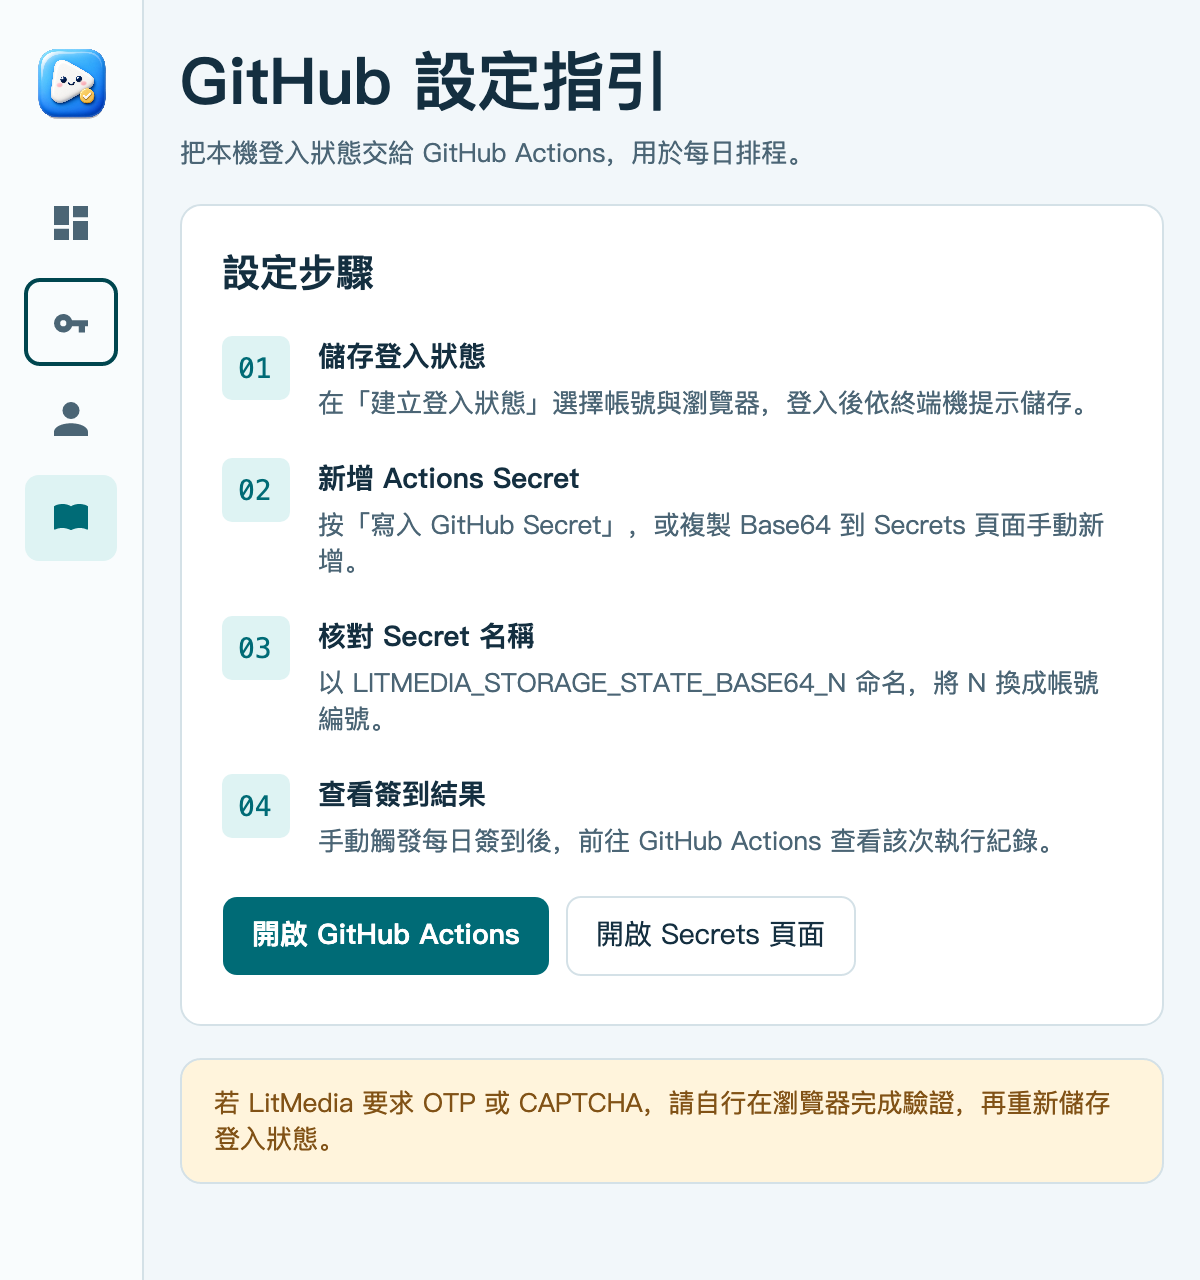
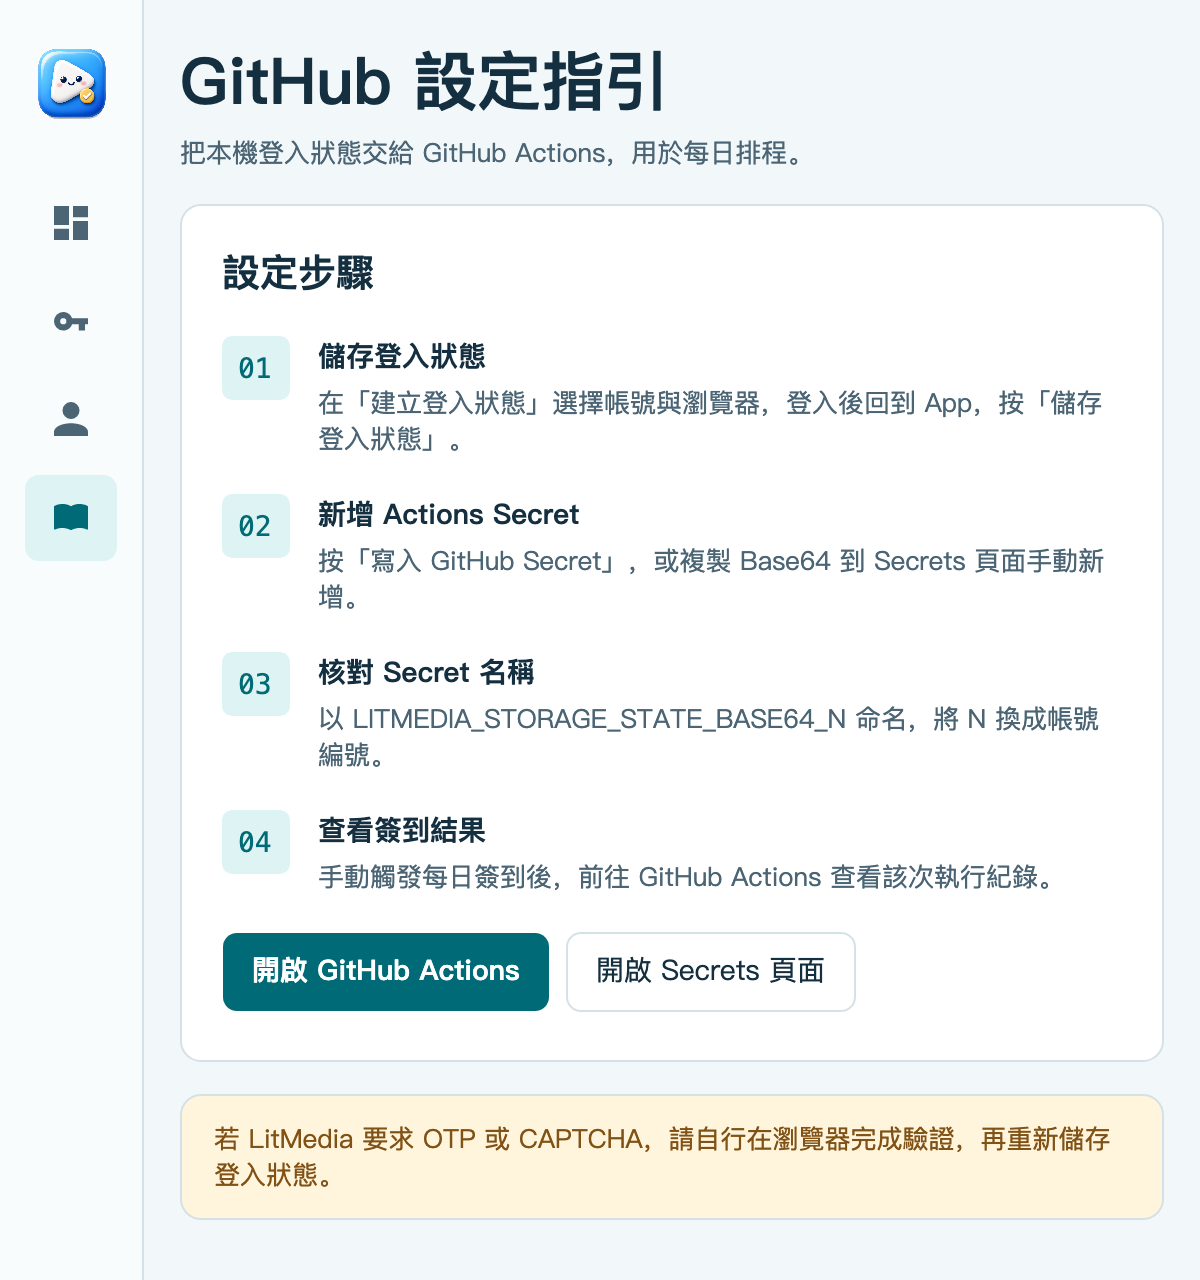
Save and cancel desktop browser sign-in without a terminal window

diff --git a/LitMediaFlow/MainWindow.axaml.cs b/LitMediaFlow/MainWindow.axaml.cs
@@ -23,6 +23,8 @@ public partial class MainWindow : Window
     private readonly Dictionary<int, string> _aliases = LoadAliases();
     private readonly Dictionary<int, TextBox> _aliasInputs = new();
     private string _browser = LoadBrowserPreference();
+    private Process? _loginProcess;
+    private bool _loginCancelled;
     private bool _showingRunAccounts;
     private string? _latestRunUrl;
     private DashboardAccount[] _displayedAccounts = [];
@@ -37,6 +39,7 @@ public partial class MainWindow : Window
         AccountComboBox.SelectionChanged += (_, _) =>
         {
             StatusText.Text = "";
+            LoginStatusText.Text = "";
             RefreshAccountState();
         };
         BrowserComboBox.ItemsSource = BrowserOptions;
@@ -52,6 +55,7 @@ public partial class MainWindow : Window
             if (DashboardView.IsVisible) RefreshLocalAccounts();
         };
         Opened += MainWindow_OnOpened;
+        Closed += (_, _) => StopLogin();
     }
 
     private int AccountNumber => AccountComboBox.SelectedIndex + 1;
@@ -135,6 +139,7 @@ public partial class MainWindow : Window
         StateDescription.Text = state is null
             ? "尚未找到登入狀態。請先完成登入流程，儲存後即可複製 Base64 或寫入 GitHub Secret。"
             : $"已找到 {Path.GetFileName(state)}。可複製 Base64 後到 Secrets 頁面貼上，或直接寫入 GitHub Secret。";
+        RunLoginButton.IsEnabled = AccountComboBox.IsEnabled;
         CopyStateButton.IsEnabled = state is not null && AccountComboBox.IsEnabled;
         CopySecretButton.IsEnabled = AccountComboBox.IsEnabled;
         UploadSecretButton.IsEnabled = CopyStateButton.IsEnabled;
@@ -152,79 +157,105 @@ public partial class MainWindow : Window
         var label = BrowserShortLabel(_browser);
         BrowserHintText.Text = $"GitHub Actions 的 LITMEDIA_BROWSER 請設為 {_browser}。";
         LoginFlowHintText.Text =
-            $"程式會開啟 {label}。請在瀏覽器完成登入與所需的 OTP 或 CAPTCHA 驗證，再回到終端機按 Enter 儲存登入狀態。";
+            $"程式會開啟 {label}。請在瀏覽器完成登入與所需的 OTP 或 CAPTCHA 驗證，再回到 App 按「儲存登入狀態」。";
     }
 
     private async void RunLoginButton_OnClick(object? sender, RoutedEventArgs e)
     {
-        RunLoginButton.IsEnabled = false;
-        var browser = _browser;
+        if (_loginProcess is not null || !AccountComboBox.IsEnabled) return;
         var account = AccountNumber;
+        var browser = _browser;
+        using var process = new Process { StartInfo = CreateLoginStartInfo(account, browser) };
+        _loginCancelled = false;
+        LoginStatusText.Text = $"正在準備 {BrowserShortLabel(browser)}。首次使用可能需要下載瀏覽器。";
+        StatusText.Text = "";
         try
         {
-            await StartLoginTerminalAsync(account, browser);
-            StatusText.Text = $"已開啟帳號 {account:00} 的 {BrowserShortLabel(browser)} 登入終端機。登入後請在終端機按 Enter，再回到此處設定 Secret。";
-        }
-        catch (Exception ex) { StatusText.Text = $"無法開啟登入流程：{ex.Message}"; }
-        finally { RunLoginButton.IsEnabled = true; RefreshAccountState(); }
-    }
+            process.Start();
+            _loginProcess = process;
+            AccountComboBox.IsEnabled = BrowserComboBox.IsEnabled = false;
+            RunLoginButton.IsVisible = false;
+            CancelLoginButton.IsVisible = CancelLoginButton.IsEnabled = true;
+            RefreshAccountState();
 
-    private async Task StartLoginTerminalAsync(int account, string browser)
-    {
-        var browserArg = browser is "chromium" ? string.Empty : $" --browser {browser}";
-        // Set LITMEDIA_BROWSER so child npm scripts stay consistent; also pass the CLI flag for auth.
-        if (OperatingSystem.IsWindows())
-        {
-            Process.Start(new ProcessStartInfo
+            var errors = process.StandardError.ReadToEndAsync();
+            while (await process.StandardOutput.ReadLineAsync() is { } line)
             {
-                FileName = "cmd.exe",
-                Arguments = $"/k set LITMEDIA_BROWSER={browser}&& npm install && npm run auth -- {account}{browserArg}",
-                WorkingDirectory = _workspace.Root,
-                UseShellExecute = true
-            });
-            return;
-        }
-
-        if (OperatingSystem.IsMacOS())
-        {
-            var stateExport = _workspace.AuthDirectory == Path.Combine(_workspace.Root, "auth")
-                ? string.Empty
-                : $"export LITMEDIA_STORAGE_STATE_PATH={ShSingleQuote(StateFile)} && ";
-            var command =
-                $"cd {ShSingleQuote(_workspace.Root)} && {stateExport}export LITMEDIA_BROWSER={ShSingleQuote(browser)} && npm install && npm run auth -- {account}{browserArg}";
-            var start = new ProcessStartInfo
-            {
-                FileName = "/usr/bin/osascript",
-                UseShellExecute = false,
-                RedirectStandardOutput = true,
-                RedirectStandardError = true
-            };
-            start.ArgumentList.Add("-e");
-            start.ArgumentList.Add("tell application \"Terminal\" to activate");
-            start.ArgumentList.Add("-e");
-            start.ArgumentList.Add($"tell application \"Terminal\" to do script {AppleScriptQuote(command)}");
-            using var process = Process.Start(start) ?? throw new InvalidOperationException("無法啟動 osascript。");
-            var stdout = process.StandardOutput.ReadToEndAsync();
-            var stderr = process.StandardError.ReadToEndAsync();
-            await process.WaitForExitAsync();
-            var error = await stderr;
-            if (process.ExitCode != 0)
-            {
-                var detail = string.IsNullOrWhiteSpace(error) ? $"結束碼 {process.ExitCode}" : error.Trim();
-                throw new InvalidOperationException($"無法開啟 Terminal：{detail}");
+                if (line == "LITMEDIA_LOGIN_READY" && !_loginCancelled)
+                {
+                    SaveLoginButton.IsVisible = SaveLoginButton.IsEnabled = true;
+                    LoginStatusText.Text = $"請在瀏覽器登入帳號 {account:00}，確認完成後回到此處儲存。";
+                }
             }
-
-            if (string.IsNullOrWhiteSpace(await stdout))
-                throw new InvalidOperationException("Terminal 沒有建立新視窗。");
-            return;
+            await process.WaitForExitAsync();
+            var error = (await errors).Trim();
+            if (_loginCancelled)
+                LoginStatusText.Text = "已取消登入。";
+            else if (process.ExitCode == 0)
+                LoginStatusText.Text = $"已儲存帳號 {account:00} 的登入狀態，可繼續設定 GitHub Secret。";
+            else
+                LoginStatusText.Text = $"登入流程已結束，尚未儲存。{(error.Length > 900 ? error[..900] : error)}";
         }
-
-        throw new PlatformNotSupportedException("登入流程目前支援 Windows 與 macOS。");
+        catch (Exception ex) { LoginStatusText.Text = $"無法啟動或完成登入。請確認已安裝 Node.js 與 npm。{ex.Message}"; }
+        finally
+        {
+            _loginProcess = null;
+            AccountComboBox.IsEnabled = BrowserComboBox.IsEnabled = true;
+            RunLoginButton.IsVisible = true;
+            SaveLoginButton.IsVisible = CancelLoginButton.IsVisible = false;
+            RefreshAccountState();
+        }
     }
 
-    private static string ShSingleQuote(string value) => "'" + value.Replace("'", "'\\''") + "'";
+    private ProcessStartInfo CreateLoginStartInfo(int account, string browser)
+    {
+        bool windows = OperatingSystem.IsWindows();
+        var start = new ProcessStartInfo
+        {
+            FileName = windows ? "cmd.exe" : "/bin/sh",
+            WorkingDirectory = _workspace.Root,
+            UseShellExecute = false, CreateNoWindow = true,
+            RedirectStandardInput = true, RedirectStandardOutput = true, RedirectStandardError = true
+        };
+        // Account and browser come from the fixed choices in the UI. All paths
+        // are passed via WorkingDirectory or the environment, including paths with spaces.
+        var command = $"npm install && {(windows ? "" : "exec ")}node scripts/save-auth.mjs {account} --browser {browser} --desktop";
+        if (windows)
+            start.Arguments = "/d /c " + command;
+        else
+        {
+            start.ArgumentList.Add("-c");
+            start.ArgumentList.Add(command);
+            if (OperatingSystem.IsMacOS())
+                start.Environment["PATH"] = (Environment.GetEnvironmentVariable("PATH") ?? "/usr/bin:/bin") + ":/opt/homebrew/bin:/usr/local/bin";
+        }
+        start.Environment["LITMEDIA_STORAGE_STATE_PATH"] = StateFile;
+        return start;
+    }
 
-    private static string AppleScriptQuote(string value) => "\"" + value.Replace("\\", "\\\\").Replace("\"", "\\\"") + "\"";
+    private void SaveLoginButton_OnClick(object? sender, RoutedEventArgs e)
+    {
+        if (_loginProcess is not { } process || !SaveLoginButton.IsEnabled) return;
+        SaveLoginButton.IsEnabled = CancelLoginButton.IsEnabled = false;
+        try
+        {
+            process.StandardInput.WriteLine("save");
+            process.StandardInput.Flush();
+            LoginStatusText.Text = "正在儲存登入狀態。";
+        }
+        catch (IOException) { LoginStatusText.Text = "登入視窗已關閉。"; }
+    }
+
+    private void CancelLoginButton_OnClick(object? sender, RoutedEventArgs e) => StopLogin();
+
+    private void StopLogin()
+    {
+        if (_loginProcess is not { } process) return;
+        _loginCancelled = true;
+        SaveLoginButton.IsEnabled = CancelLoginButton.IsEnabled = false;
+        try { if (!process.HasExited) process.Kill(entireProcessTree: true); }
+        catch (InvalidOperationException) { /* The browser session already ended. */ }
+    }
 
     private async void RunCheckinButton_OnClick(object? sender, RoutedEventArgs e)
     {

diff --git a/README.md b/README.md
@@ -106,7 +106,7 @@ $env:LITMEDIA_BROWSER="edge"
 cmd /c npm run checkin:all
 ```
 
-In `LitMediaFlow`, open **建立登入狀態** and pick **Chromium（預設）**, **Firefox（備案）**, or **Edge（備案）** before starting login. Keep GitHub Actions on the same browser via repository variable `LITMEDIA_BROWSER` or the manual workflow input.
+In `LitMediaFlow`, open **建立登入狀態** and pick **Chromium（預設）**, **Firefox（備案）**, or **Edge（備案）** before starting login. After signing in in the browser, return to the app and click **儲存登入狀態**. **取消登入** discards the current attempt. Keep GitHub Actions on the same browser via repository variable `LITMEDIA_BROWSER` or the manual workflow input.
 
 Test the check-in locally (single account; default file `auth/litmedia.storageState.json`):
 

diff --git a/README.zh-CN.md b/README.zh-CN.md
@@ -96,7 +96,7 @@ $env:LITMEDIA_BROWSER="edge"
 cmd /c npm run checkin:all
 ```
 
-在 `LitMediaFlow` 桌面端：「建立登入狀態」頁可選 **Chromium（預設）**、**Firefox（備案）** 或 **Edge（備案）**。GitHub Actions 請用倉庫變數 `LITMEDIA_BROWSER` 或手動執行時的 workflow 選項保持一致。
+在 `LitMediaFlow` 桌面端：「建立登入狀態」頁可選 **Chromium（預設）**、**Firefox（備案）** 或 **Edge（備案）**。在瀏覽器完成登入後，回到 App 按「儲存登入狀態」；按「取消登入」可放棄這一次操作。GitHub Actions 請用倉庫變數 `LITMEDIA_BROWSER` 或手動執行時的 workflow 選項保持一致。
 
 ## 本機測試簽到
 
